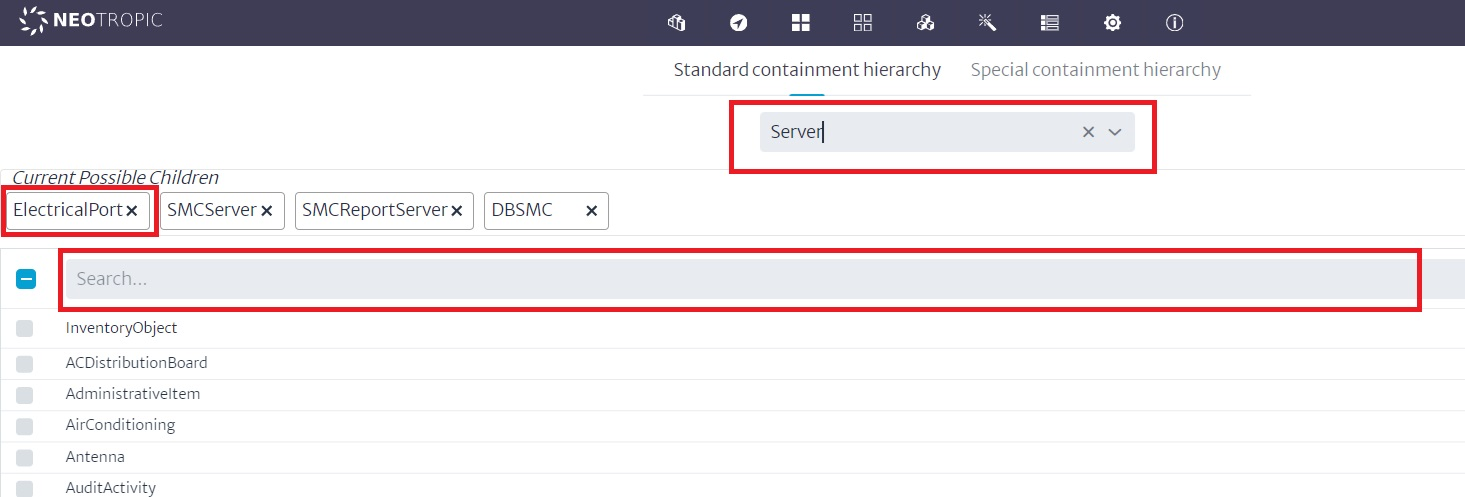
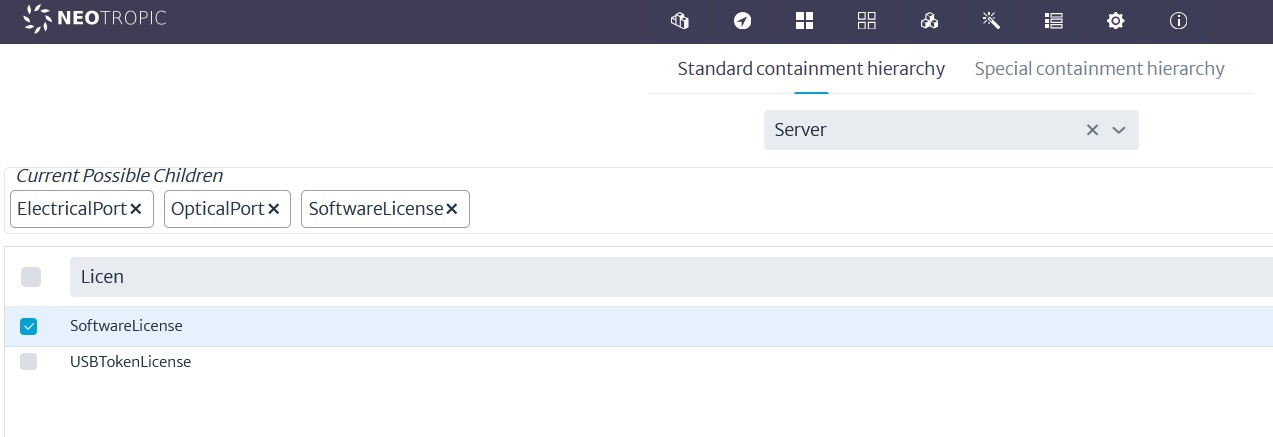
Updated documentation for basic tutorial and VAS system

diff --git a/tutorials/src/value-added-service/README.md b/tutorials/src/value-added-service/README.md
@@ -1,96 +1,135 @@
-# Getting Started with Kuwaiba
+# Getting Started with Kuwaiba 
 
-This is a very basic tutorial. When you are faced with a new tool, perhaps the most direct way to understand how it works is by getting hands-on and creating something. This tutorial will help you model a basic short messaging system using Kuwaiba.
+This is a very basic tutorial. When faced with a new tool, perhaps the most direct way to understand how it works is by getting hands-on and creating something. This tutorial will help you model a basic short messaging system using Kuwaiba.
 
-However, I recommend doing some preliminary work to ensure that your idea is effectively translated into the tool. The first thing we will do is list the key elements of your model. In my case, I will work on a classic VAS (Value-Added Service) system: a short messaging system connected to the core network via SIGTRAN and to the BSS (Business Support Systems) via APIs. I have chosen this system because it represents the basic functionality of many value-added services and other telematics-oriented services.
+However, some preliminary work is recommended to ensure that your idea is effectively translated into the tool. The first step is to list the key elements of your model. In this case, we will work on a classic VAS (Value-Added Service) system: a short messaging system connected to the core network via SIGTRAN and to the BSS (Business Support Systems) via APIs. This system was chosen because it represents the basic functionality of many value-added services and other telematics-oriented services.
 
-## Components
+## What is a VAS (Value-Added Service)?
 
-### Servers
+**Value-Added Services (VAS)** in telecommunications are additional services offered beyond the basic voice or messaging features. Examples include SMS, mobile payments, or entertainment services like games and multimedia. VAS enhance user experience by providing extra features, driving customer satisfaction and new revenue streams for providers.
 
-**Physical Equipment**: These will host the services.
+### Key Components of a VAS System
 
-### Services
+- **Application Platform**: Hosts applications like messaging, multimedia, or gaming.
+- **Communication Interfaces**: Connect VAS to the core telecom network, BSS, and OSS.
+- **Billing Systems and CDR**: Manage billing records for transactions.
+- **Network Gateways**: Enable users to access the VAS services.
 
-We will create four services:
+## An SMC Center in Kuwaiba 
 
-1. **Short Message Center (SMC)**: Responsible for receiving, processing, routing, and storing text messages in memory for the cellular network (SMS messages of 160 characters as per the SMPP 3.4 protocol).  
-2. **Billing Server**: Responsible for generating Call Detail Records (CDRs).  
-3. **Reporting Server**: Handles the creation of various reports.  
-4. **Core Network Communication Server**: This service manages the relationship with a Signaling Transfer Point (STP) in the core network using the SIGTRAN protocol to handle communication within a 3G/4G/5G network.
+Let's create a diagram that relates these elements (Figure 1). This will help improve the model and potentially include elements that were not initially considered but are necessary (such as a rack, a datacenter, or perhaps electrical equipment). The level of detail can be adjusted as needed, but for now, it will be kept basic.
 
-### Additional Equipment
-
-To make this work, we will need other equipment such as databases, networking gear, fiber optics, and UTP cables.
-
-Now, let's create a diagram that relates these elements. This will help us improve our model and possibly include elements that were not initially present but are necessary (such as a rack, a datacenter, or perhaps electrical equipment). This can take you to the level of detail you want, but for now, it will be something basic.
-
-| ![Diagrama primario](images/basic_diagram.jpg) |
+| ![high level diagram](images/basic_diagram.jpg) |
 |:--:|
 | ***Figure 1: Basic Diagram of Components*** |
 
-Now we are going to start transferring this graphical model to Kuwaiba. As a first step, we will locate our racks (A-B) inside a room located in a building (Datacenter A) in an imaginary city called Fruncia.
+Follow the steps below:
 
-To do this, we will use the "navigation" module:
+1. Use the Data Model Manager by selecting **Administration -> Data Model Manager** from the options menu. Although there is a preloaded model for this case, some additional classes and attributes will need to be added.
 
-| ![navigation module](images/Navigation01.jpg) |
+2. Create containments based on the provided diagram (**Administration->Containment Manager**): a datacenter contains racks, a rack contains servers, and a server contains Ethernet interfaces, among others.
+
+3. Use **Navigation -> Navigation** to create the necessary devices.
+
+4. Utilize the Software Manager to establish relationships between the servers and the software licenses for the VAS platforms.
+
+Begin by reviewing the diagram to confirm if all elements are present in the default structure. Evaluate whether their attributes can be used or if new classes need to be created from scratch, for example:
+
+These devices are already in Kuwaiba (Figure 2):
+
+| ![SMC Server](images/DataModelManager01.jpg) |
 |:--:|
-| ***Figure 2: Navigation Module*** |
+| ***Figure 2: SMC Server*** |
 
-Let’s start from the root by clicking on "Go to root", which will display some "countries" or "continents" that were created earlier. At this point, we could create an imaginary continent or include Europe or any starting point by clicking on "root actions/new Object".
+In addition to the servers and racks, there are also other physical devices such as switches, cables, software licenses, services, rooms, and buildings. Kuwaiba provides all the tools needed to create any required components for the model. Navigate through the tree from **InventoryObject -> AdministrativeItem -> GenericService**. Create a new class by clicking the (+) sign (see Figure 4). Add the class VASServices, and then add three services using the same method (see Figure 5).
 
-In our case, we will create Fruncia within America. So, we will click on America:
-
-| ![navigation from root](images/Navigation02.jpg) |
+| ![VAS Service](images/VASService_Creation.jpg) |
 |:--:|
-| ***Figure 3: Navigation from Root to America*** |
+| ***Figure 4: VAS Service Creation*** |
 
-Then, we will click on the three dots in front of America and create a new object called Fruncia. 
-
-Next, we will look for the three dots for the Fruncia object. A dialog will appear asking what kind of class we will create. We will choose the appropriate type for each case, such as a country. We will do the same by creating a building and then a datacenter:
-
-| ![creating objects of class](images/Navigation03.jpg) |
+| ![all services](images/VASServices.jpg) |
 |:--:|
-| ***Figure 4: Creating Objects of Class*** |
+| ***Figure 5: All Services Overview*** |
 
-This means we are creating a structure where a continent contains a country, that country contains cities and buildings, and those buildings contain datacenters.
+We will also create a class (**GenericNSSGSMElement**) for NSS equipment that would house any 3G, 4G, or 5G equipment from the GSM Core. Navigate the class tree as follows: **InventoryObject -> ViewableObject -> ConfigurationItem -> GenericCommunicationsElement**.
 
-Of course, I skipped many details (remember that this is a basic tutorial), but we could have a very detailed structure, with all kinds of details... region, district, neighborhood, floor, etc.
-
-| ![navigation while creating objects](images/Navigation04.jpg) |
+| ![NSSElement](images/NSSELEMNT.jpg) |
 |:--:|
-| ***Figure 5: Navigation While Creating Objects*** |
+| ***Figure 6: Generic NSS GSM Element*** |
 
-| ![more objects](images/Navigation05.jpg) |
+*Note: Icons were added to slightly customize the new classes.*
+
+Now, each class has attributes. Kuwaiba offers the possibility to create more complex attributes. Although the "Software License" class exists, use the **Administration->List Type Manager** tool to create a VAS product of type SMC.
+
+| ![SWType](images/SMCSoftwareType.jpg) |
 |:--:|
-| ***Figure 6: Creating More Objects*** |
+| ***Figure 7: Software type*** |
 
-| ![more objects](images/Navigation05.1.jpg) |
+| ![SWType](images/SMCSoftwareType2.jpg) |
 |:--:|
-| ***Figure 7: More Objects Created*** |
+| ***Figure 8: Software type*** |
 
-| ![more objects](images/Navigation05.2.jpg) |
+Next, use **Logical-->Software Manager** to create a special license pool for Fruncia Telecom. Proceed as follows: first, click on "Manage Licenses" and then on "New License Pool" (Figure 9). The license is then added to the SMC product that was previously created (Figure 10).
+
+| ![SWType](images/LicensePool.jpg) |
 |:--:|
-| ***Figure 8: Continuing to Create Objects*** |
+| ***Figure 9: License Pool 1*** |
 
-| ![more objects](images/Navigation08.jpg) |
+| ![SWType](images/SMCLicense2.jpg) |
 |:--:|
-| ***Figure 9: Additional Object Creation*** |
+| ***Figure 10: License Pool 2*** |
 
-I created several racks, thinking of a real example of a similar distribution, where in a single datacenter there were core equipment, networking equipment, VAS equipment, and OSS/BSS, all on different rows of racks, connected by 24-port L2 switches. In this case, we will have one rack with three servers connected to a switch, which is then connected to another switch in a different rack where the BSS and Core racks are located.
-
-| ![Racks](images/Navigation09.jpg) |
+| ![SWType](images/SMCLicense3.jpg) |
 |:--:|
-| ***Figure 10: Racks in Datacenter01*** |
+| ***Figure 11: License Pool 3*** |
 
-Now, what we are going to do is place the servers in each of the racks. However, we need to take a preliminary step because the servers in the tool, by default, may contain optical ports, and I require that my design includes electrical ports. Therefore, I need to use the Containment Manager to modify the containment hierarchy of the servers.
+## Using Container Management
 
-| ![Containment Manager](images/Contaimentmanager1.jpg) |
+Using **Administration->Containment Manager**, it is necessary to create any missing containment relationships. Many are already present, such as a city being contained within a country. In this case, additional relationships may need to be established, for example, Ethernet ports will be added to the servers, and STPs.
+
+| ![Container manager 1](images/Contaimentmanager1.jpg) |
 |:--:|
-| ***Figure 11: Containment Manager Interface*** |
+| ***Figure 12: Container Manager*** |
 
-To do this, I will search for the Server class and, using the search function, I will add electrical ports as children, as shown in the following image:
-
-| ![Add Electrical Ports to Server Class](images/Contaimentmanager2.jpg) |
+| ![STP ETH](images/STPETH.jpg) |
 |:--:|
-| ***Figure 12: Adding Electrical Ports to Server Class*** |
+| ***Figure 13: STP Ethernet*** |
+
+## Creating Devices
+
+Now, use the **Navigator** to create a basic structure with a country in America named **Fruncia**, a city (**Fruncia City**), a **datacenter** within the city, two **Rooms** (A and B), and a couple of **racks** in each room to contain the servers and networking equipment. For further details on how to create this type of structure, refer to the manual [XXXXX].
+
+| ![Country-City-Datacenter-Rooms](images/Country-City-Datacenter-Rooms.jpg) |
+|:--:|
+| ***Figure 14: Country-City-Datacenter-Rooms*** |
+
+Next, add servers and switches to each rack according to the base diagram. It's important to consider the object properties of the rack and servers to ensure proper visualization. The **RackUnits** have been set to 32, with the servers occupying two units, 10 units for the equipment interfacing between the applications and the GSM core, and 4 units for the disk array. The position of each server must also be specified.
+
+| ![RackVAS](images/RackVAS.jpg) |
+|:--:|
+| ***Figure 15: Rack Details*** |
+
+| ![SMCServer](images/SMCServer.jpg) |
+|:--:|
+| ***Figure 16: Server Details*** |
+
+Now, link the created services with the corresponding servers. In **Figure 17**, by navigating and reviewing the **SMS service**, it is linked to the **SMC server**.
+
+| ![SMSServiceToServer](images/SMSServiceToServer.jpg) |
+|:--:|
+| ***Figure 17: Linking SMS Service to SMC Server 1*** |
+
+| ![SMSServiceToServer2](images/SMSServiceToServer2.jpg) |
+|:--:|
+| ***Figure 18: SMS Service Linked to SMC Server 2*** |
+
+Finally, link the licenses to the SMC server by using the advanced options of the SMCServer object.
+
+| ![License relation](images/RelatetoLicense.jpg) |
+|:--:|
+| ***Figure 19: Linking SMS License to SMC Server 1*** |
+
+| ![License relation](images/RelatetoLicense2.jpg) |
+|:--:|
+| ***Figure 20: Linking SMS License to SMC Server 2*** |
+
